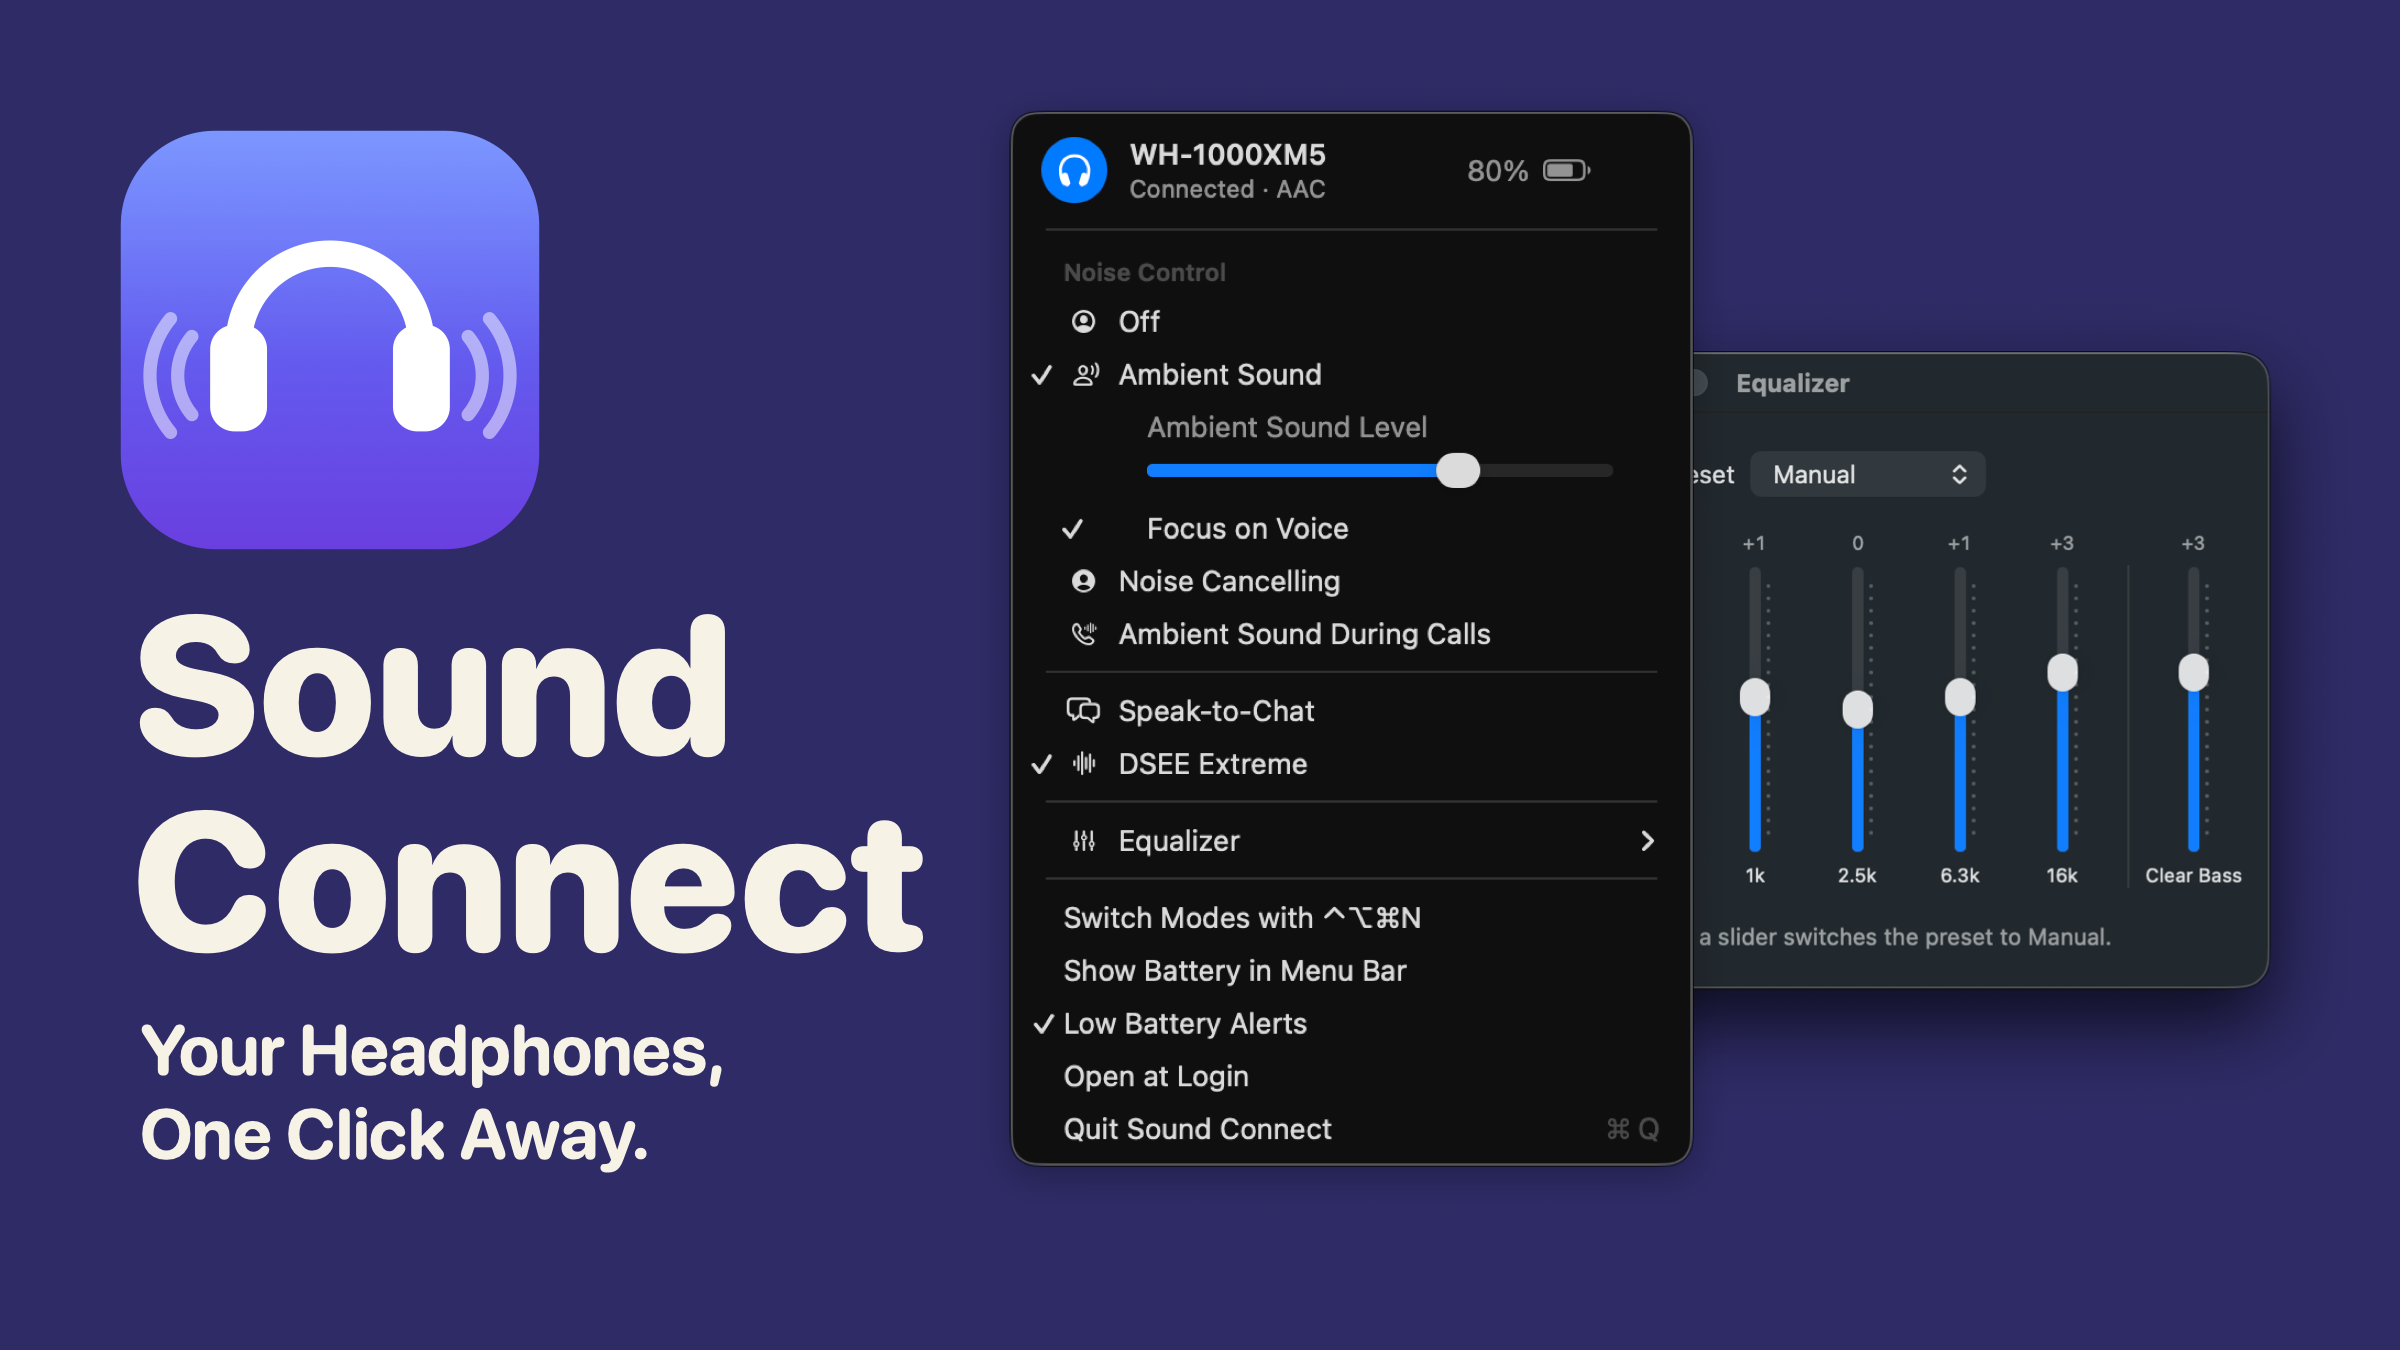
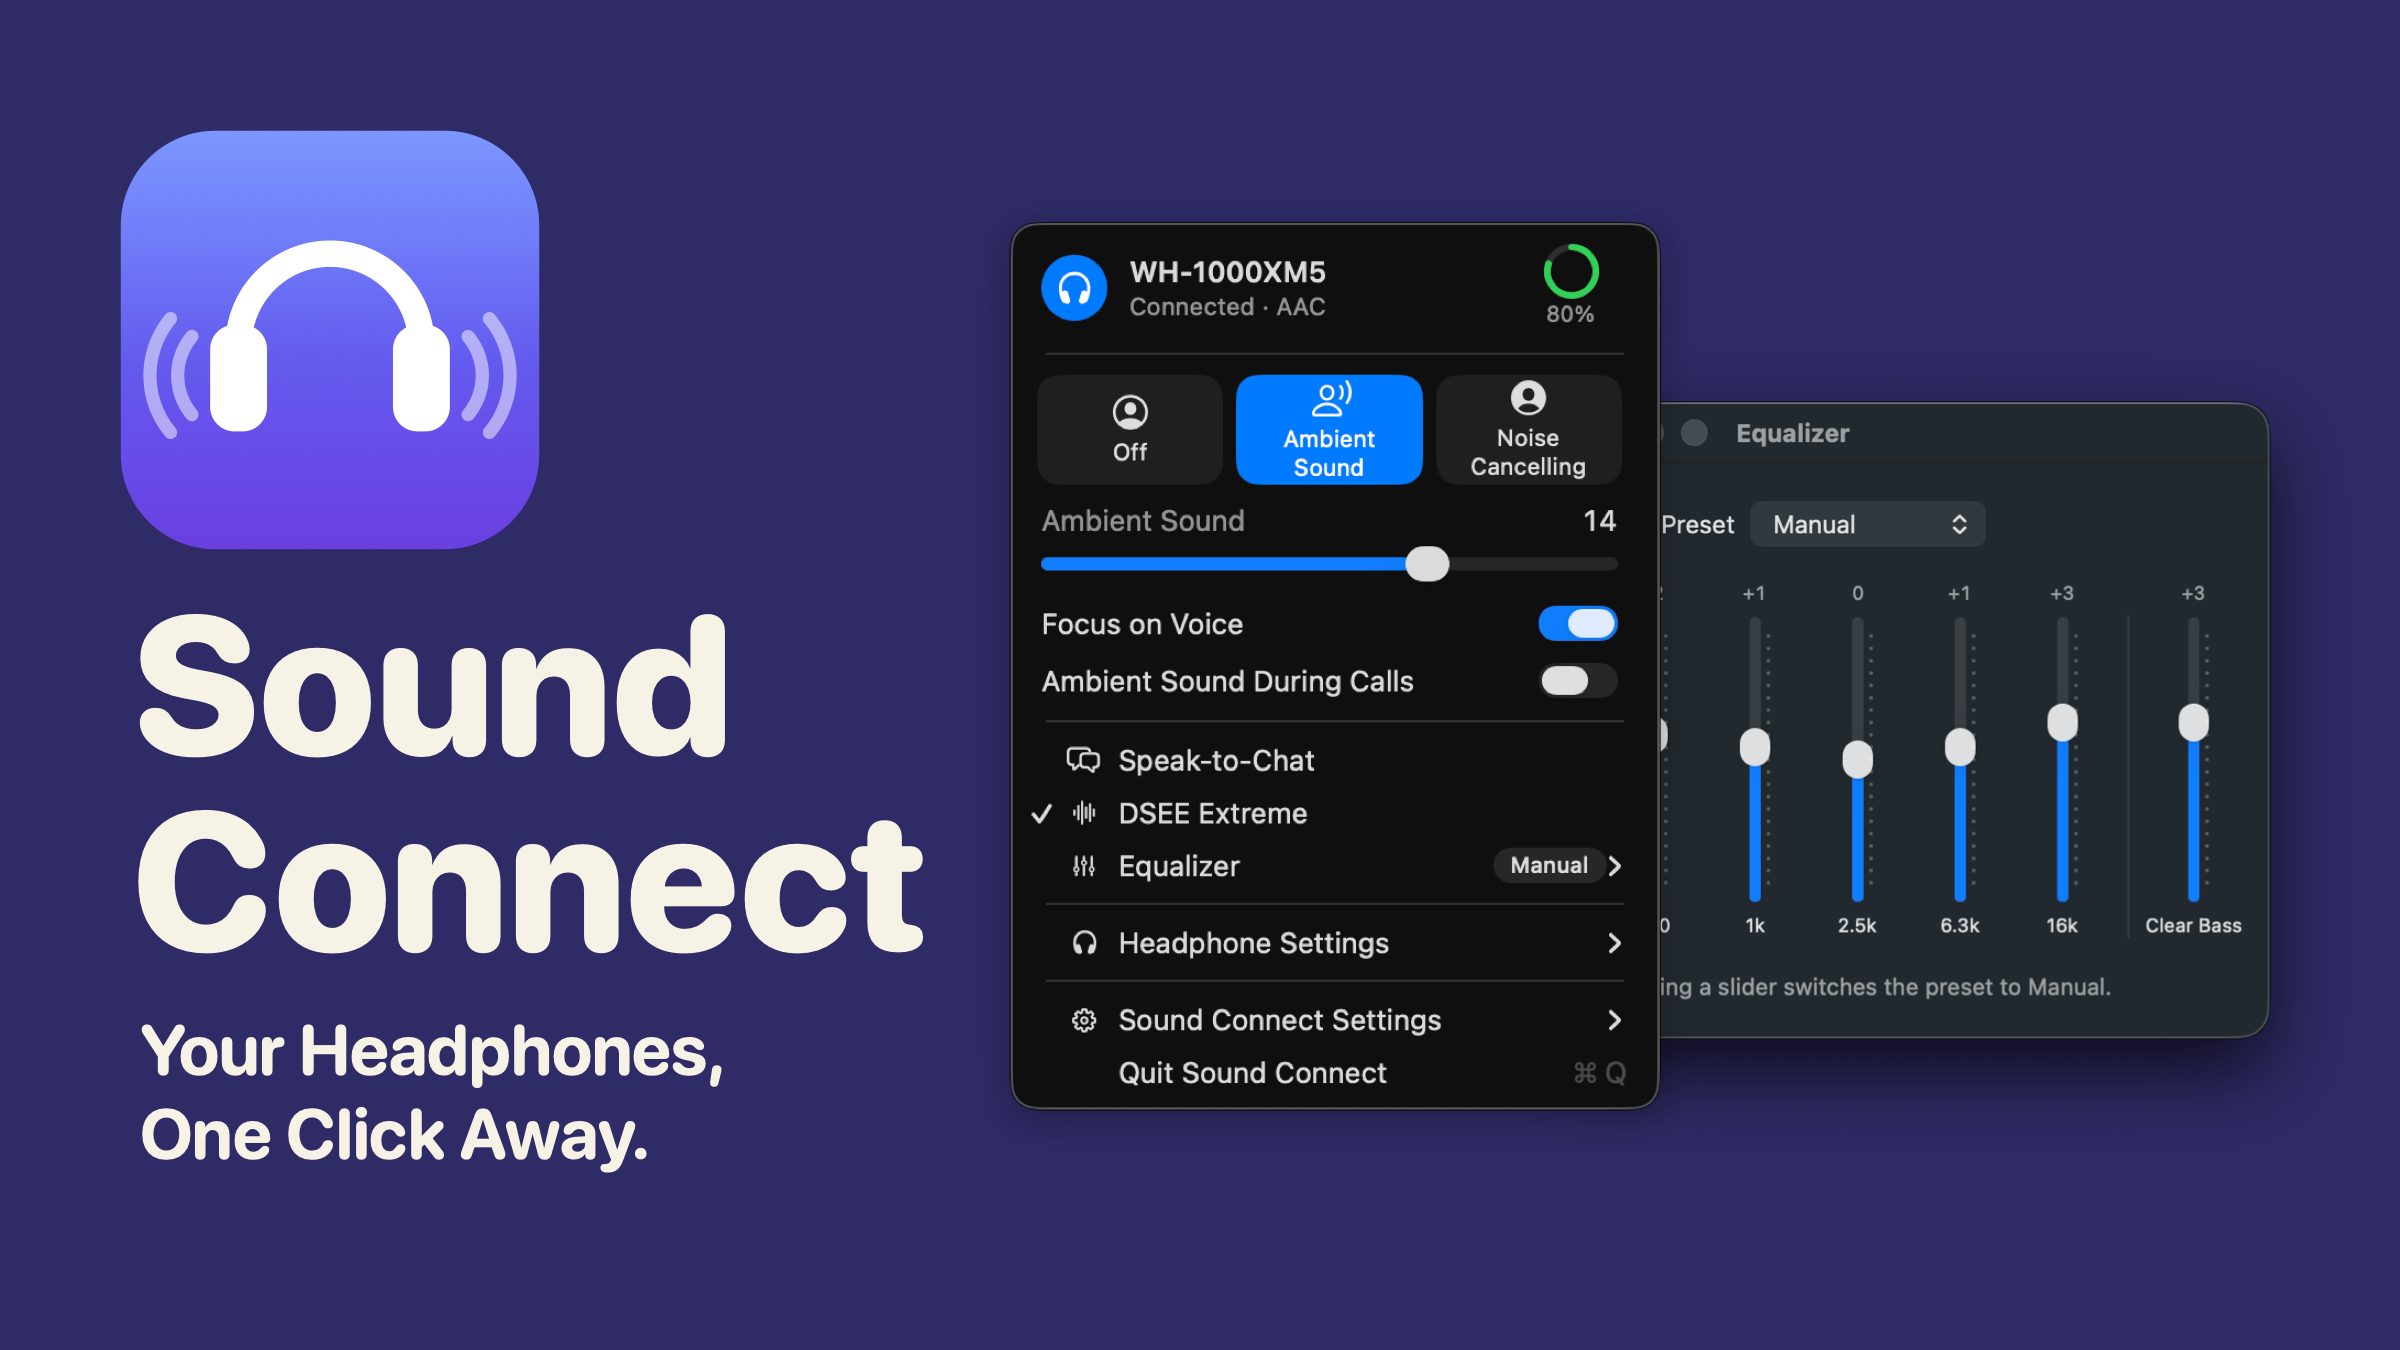
Show the new menu in the README

diff --git a/scripts/render-cover.swift b/scripts/render-cover.swift
@@ -25,13 +25,15 @@ func write(_ lines: [String], font: NSFont, spacing: CGFloat, x: CGFloat, top: C
 }
 
 /// Draws one of the README pictures, saved at 2x, at `scale` of its pixel
-/// size with its top left corner at `x`, `top`.
-func place(_ name: String, x: CGFloat, top: CGFloat, scale: CGFloat) {
+/// size with its top left corner at `x`, `top`, or centered from top to
+/// bottom without `top`.
+func place(_ name: String, x: CGFloat, top: CGFloat? = nil, scale: CGFloat) {
     let url = folder.appendingPathComponent(name)
     guard let data = try? Data(contentsOf: url), let picture = NSBitmapImageRep(data: data) else {
         fatalError("can't read \(url.path)")
     }
     let size = NSSize(width: CGFloat(picture.pixelsWide) * scale, height: CGFloat(picture.pixelsHigh) * scale)
+    let top = top ?? (height + size.height) / 2
     picture.draw(
         in: NSRect(origin: NSPoint(x: x, y: top - size.height), size: size), from: .zero, operation: .sourceOver,
         fraction: 1, respectFlipped: false, hints: nil)
@@ -52,8 +54,8 @@ write(["Sound", "Connect"], font: rounded(196, .heavy), spacing: 1, x: 132, top:
 write(["Your Headphones,", "One Click Away."], font: rounded(70, .bold), spacing: 1.2, x: 140, top: 330)
 
 // The equalizer behind, the menu in front of it.
-place("equalizer-dark.png", x: 1470, top: height - 280, scale: 0.95)
-place("menu-dark.png", x: 960, top: height - 70, scale: 1.1)
+place("equalizer-dark.png", x: 1470, top: height - 330, scale: 0.95)
+place("menu-dark.png", x: 960, scale: 1.1)
 
 NSGraphicsContext.restoreGraphicsState()
 try cover.representation(using: .png, properties: [:])!.write(to: folder.appendingPathComponent("cover.png"))

diff --git a/README.md b/README.md
@@ -21,10 +21,11 @@
 - **Hear yourself on calls**: Switches to Ambient Sound on its own when a call starts, and back when it ends
 - **Shape your sound**: Pick an equalizer preset or make your own, and turn on DSEE Extreme to bring back detail in compressed music
 - **Battery at a glance**: See each earbud and the case, get a notification when it runs low, and on a Mac, see it next to the menu bar icon
-- **Smart settings**: Speak-to-Chat and how readily it notices you, voice prompts, pausing music when you take your headphones off, and when they turn off on their own
+- **Smart settings**: Speak-to-Chat and how readily it notices you, voice prompts, pausing music when you take your headphones off, and when they turn off on their own. On a Mac, you can also turn them off from the menu
 - **Buttons your way**: Choose what the noise control button switches between, or have the Bose Action button change noise cancelling
 - **Switch devices**: When your Sony headphones are connected to your phone and your computer at once, choose which one you hear
 - **One-click connect**: Connect your headphones when they're paired but not connected
+- **See every change**: On a Mac, a pop-up shows the new mode when you change it with the button on your headphones or a shortcut
 - **Shortcuts and scripts**: Switch modes with a keyboard shortcut in any app, from Shortcuts, Raycast or Alfred, or show your headphones in Waybar
 
 <p align="center">
@@ -68,7 +69,7 @@ When there's a new version, **Update** appears in Sound Connect's menu. One clic
 
 ## Keyboard Shortcut
 
-On a Mac, turn on **Switch Modes with ⌃⌥⌘N** in Sound Connect's menu. Then press Control-Option-Command-N in any app to go to the next mode.
+On a Mac, turn on **Switch Modes with ⌃⌥⌘N** in **Sound Connect Settings**, in Sound Connect's menu. Then press Control-Option-Command-N in any app to go to the next mode.
 
 On Linux, add a keyboard shortcut in your system settings that runs this command:
 
@@ -154,4 +155,4 @@ Sound Connect is an independent project. It isn't made, endorsed or supported by
 
 ## Thanks
 
-Sound Connect builds on the work of open-source projects that figured out how these headphones communicate, especially [Gadgetbridge](https://gadgetbridge.org), [SonyHeadphonesClient](https://github.com/mos9527/SonyHeadphonesClient) and [Sony Device Center](https://github.com/marconvcm/sony-device-center) for Sony, and [bosectl](https://github.com/alabalag1/bosectl) and [based-connect](https://github.com/Denton-L/based-connect) for Bose.
+Sound Connect builds on the work of open-source projects that figured out how these headphones communicate, especially [Gadgetbridge](https://gadgetbridge.org), [SonyHeadphonesClient](https://github.com/mos9527/SonyHeadphonesClient), [Sony Device Center](https://github.com/marconvcm/sony-device-center) and [acouplet](https://github.com/baglayan/acouplet) for Sony, and [bosectl](https://github.com/alabalag1/bosectl) and [based-connect](https://github.com/Denton-L/based-connect) for Bose.
